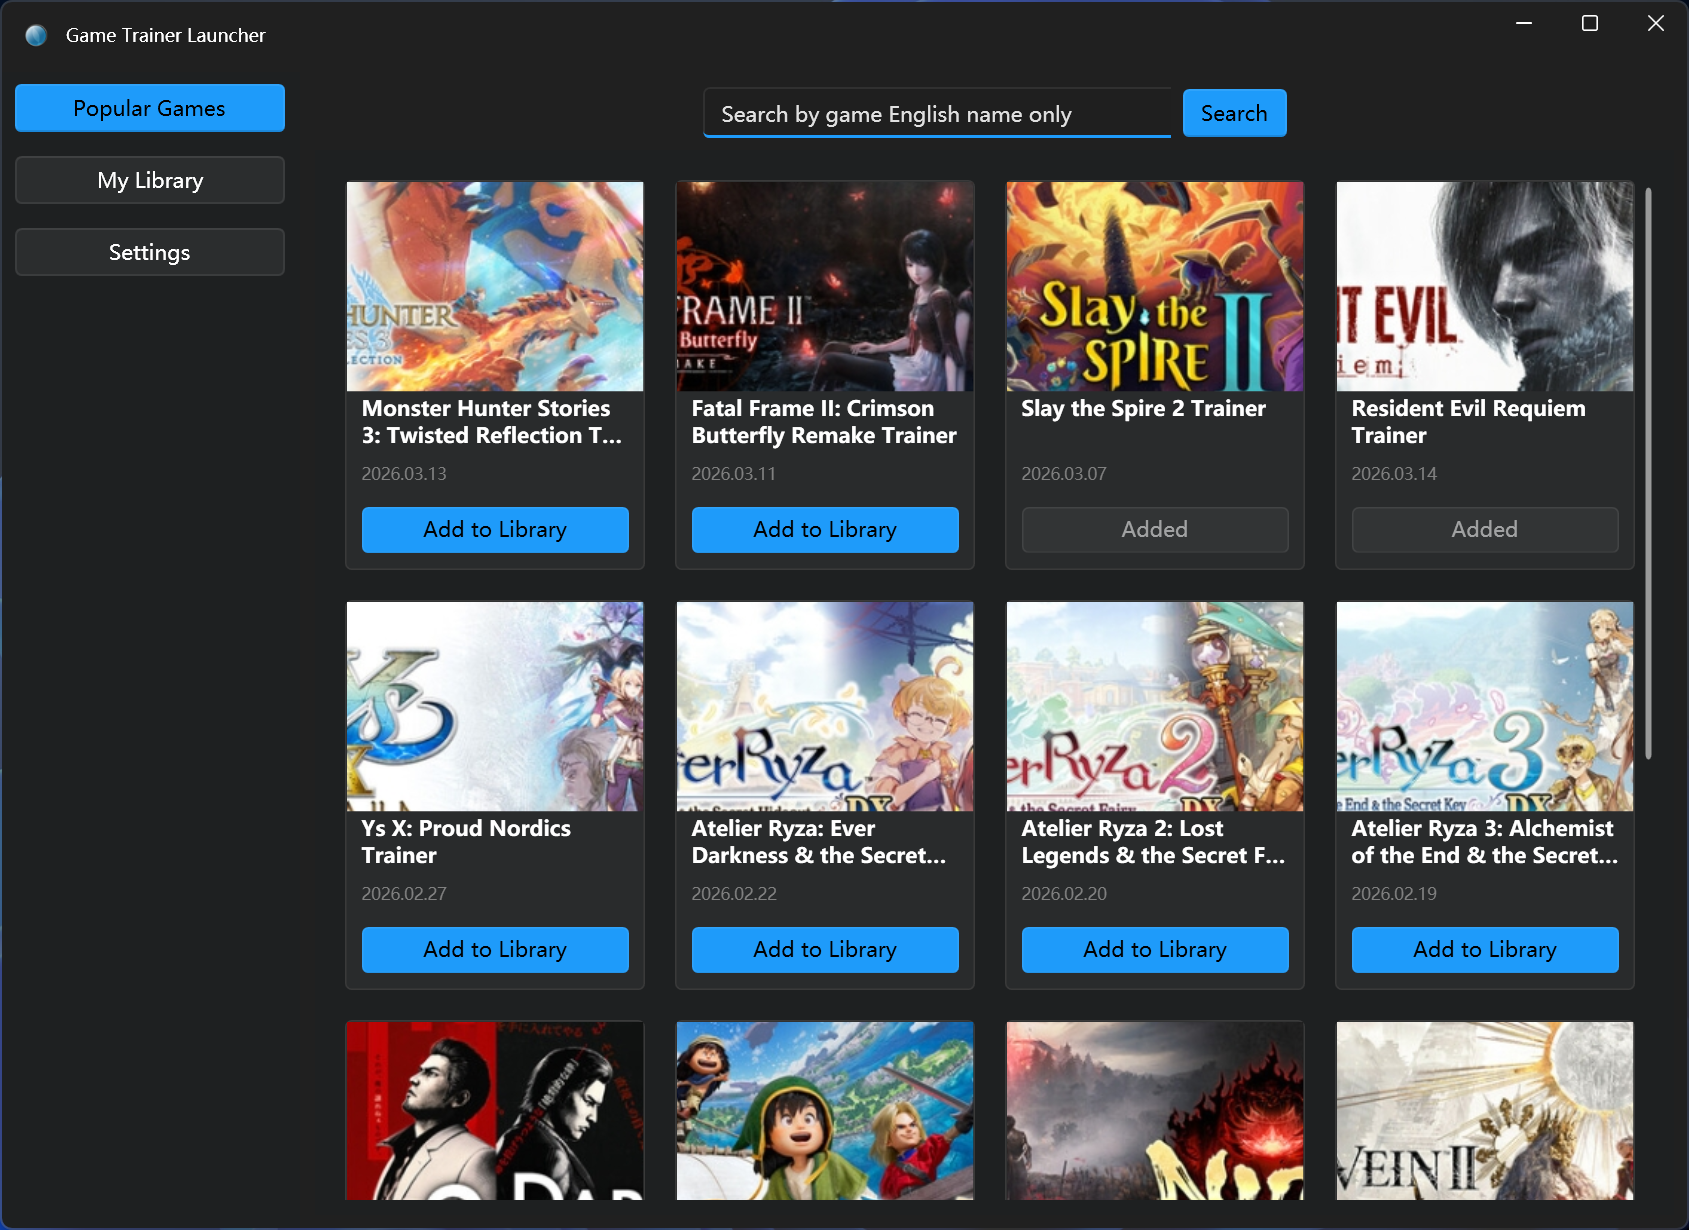
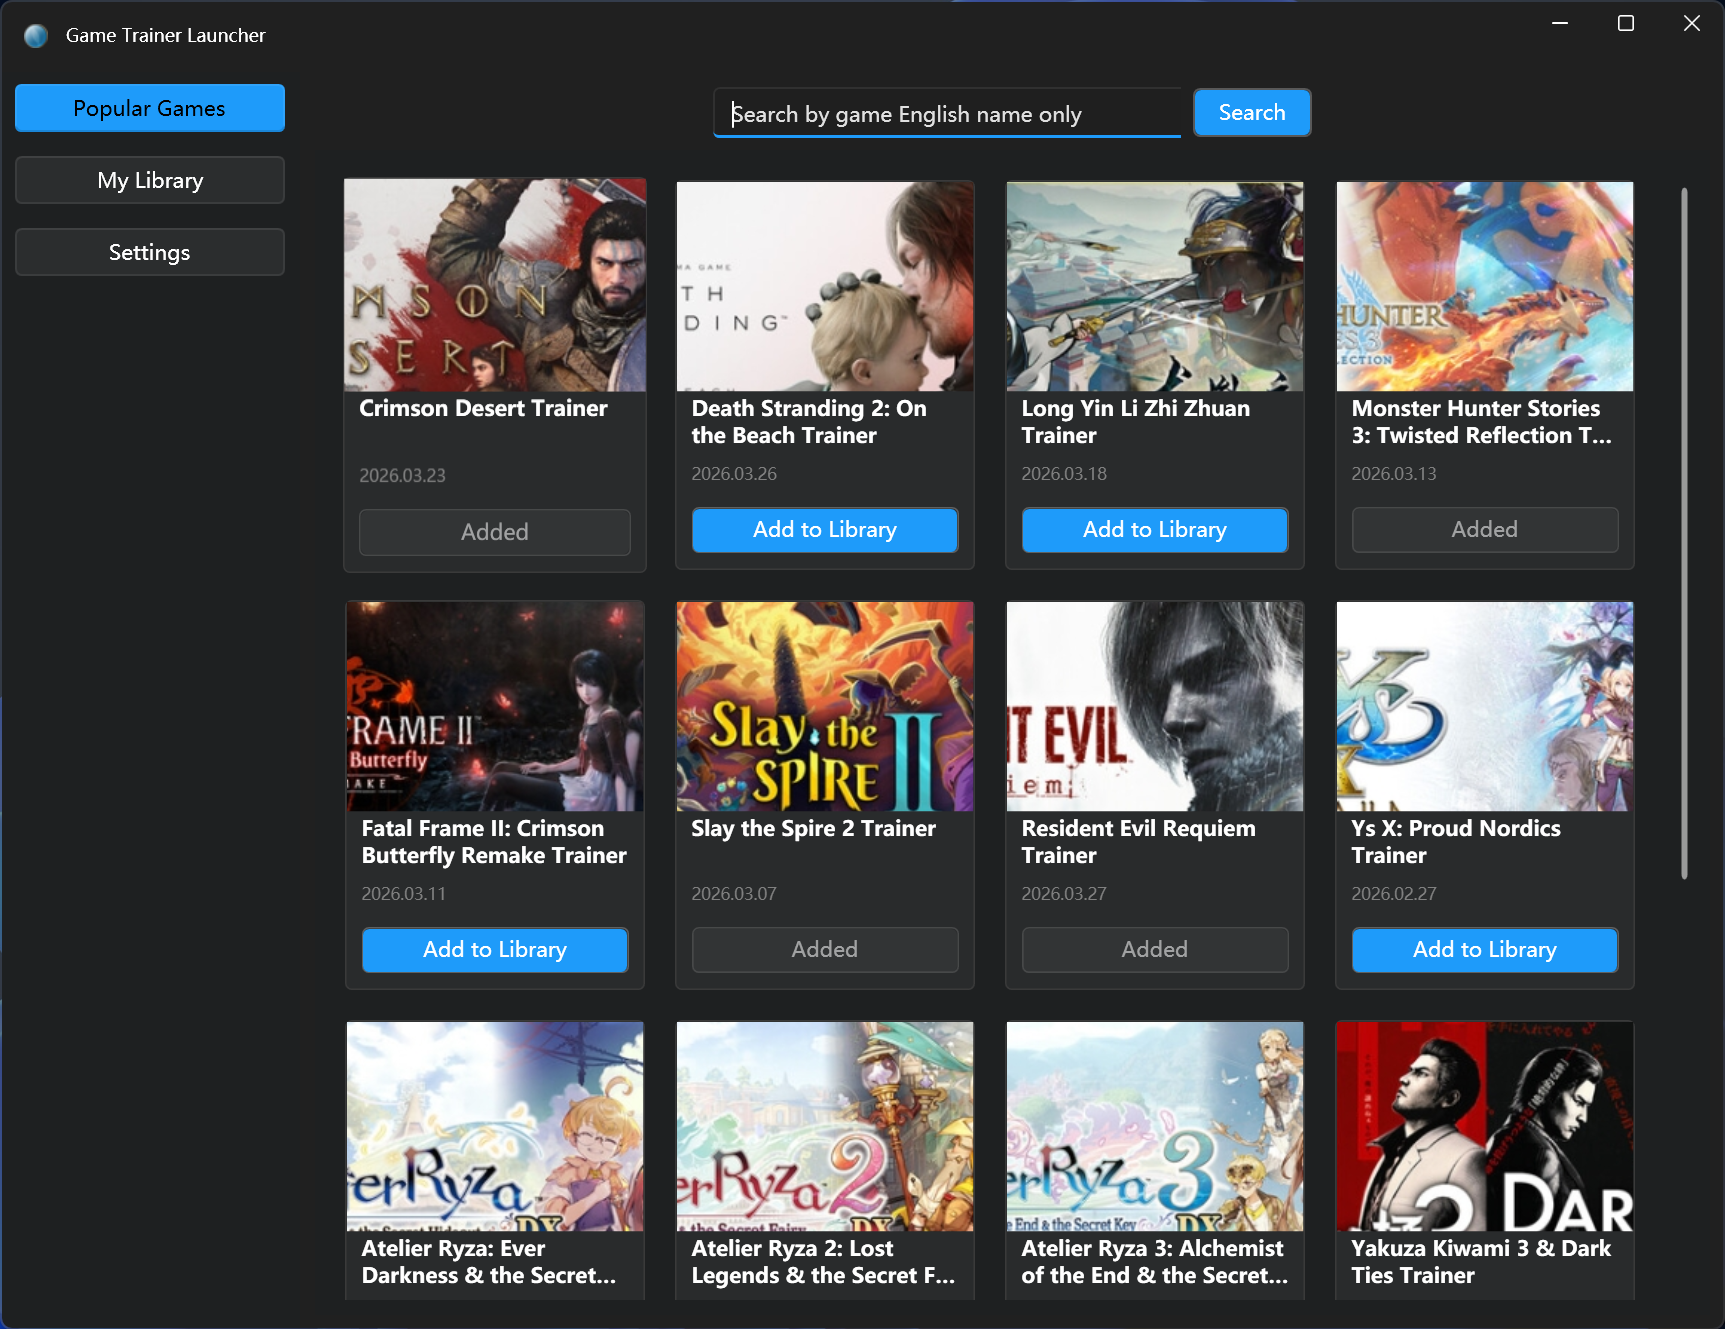
feat: refine search card layout and settings UX
Align search result action buttons, update bilingual search hints, add repository shortcut in settings, and refresh CN/EN README with version-selection and update guidance.

Made-with: Cursor

diff --git a/GameTrainerLauncher.UI/Resources/Languages/English.xaml b/GameTrainerLauncher.UI/Resources/Languages/English.xaml
@@ -2,8 +2,8 @@
                     xmlns:x="http://schemas.microsoft.com/winfx/2006/xaml"
                     xmlns:system="clr-namespace:System;assembly=mscorlib">
     <system:String x:Key="AppTitle">Game Trainer Launcher</system:String>
-    <system:String x:Key="SearchPlaceholder">Search by game English name only</system:String>
-    <system:String x:Key="MsgSearchEmpty">Please enter a game name (in English) before searching.</system:String>
+    <system:String x:Key="SearchPlaceholder">Search by game name (Chinese or English)</system:String>
+    <system:String x:Key="MsgSearchEmpty">Please enter a game name (Chinese or English) before searching.</system:String>
     <system:String x:Key="NavPopular">Popular Games</system:String>
     <system:String x:Key="NavMyGames">My Library</system:String>
     <system:String x:Key="NavSettings">Settings</system:String>
@@ -61,6 +61,9 @@
     <system:String x:Key="UpdateStatusLabel">Status</system:String>
     <system:String x:Key="UpdateLastCheckedLabel">Last Checked</system:String>
     <system:String x:Key="UpdateCheckNow">Check for Updates</system:String>
+    <system:String x:Key="RepoSectionTitle">Project Repository</system:String>
+    <system:String x:Key="RepoDescription">View source code, file issues, and contribute.</system:String>
+    <system:String x:Key="RepoOpenButton">Open GitHub Repository</system:String>
     <system:String x:Key="UpdateNeverChecked">Never checked</system:String>
     <system:String x:Key="UpdateChecking">Checking for updates...</system:String>
     <system:String x:Key="UpdateStatusNotChecked">Not checked yet.</system:String>

diff --git a/GameTrainerLauncher.UI/Resources/Languages/Chinese.xaml b/GameTrainerLauncher.UI/Resources/Languages/Chinese.xaml
@@ -2,8 +2,8 @@
                     xmlns:x="http://schemas.microsoft.com/winfx/2006/xaml"
                     xmlns:system="clr-namespace:System;assembly=mscorlib">
     <system:String x:Key="AppTitle">游戏修改器启动器</system:String>
-    <system:String x:Key="SearchPlaceholder">仅支持按游戏英文名搜索</system:String>
-    <system:String x:Key="MsgSearchEmpty">请先输入游戏英文名再搜索。</system:String>
+    <system:String x:Key="SearchPlaceholder">支持中文或英文游戏名搜索</system:String>
+    <system:String x:Key="MsgSearchEmpty">请输入中文或英文游戏名后再搜索。</system:String>
     <system:String x:Key="NavPopular">热门游戏</system:String>
     <system:String x:Key="NavMyGames">我的游戏</system:String>
     <system:String x:Key="NavSettings">设置</system:String>
@@ -61,6 +61,9 @@
     <system:String x:Key="UpdateStatusLabel">状态</system:String>
     <system:String x:Key="UpdateLastCheckedLabel">上次检查</system:String>
     <system:String x:Key="UpdateCheckNow">检查更新</system:String>
+    <system:String x:Key="RepoSectionTitle">项目仓库</system:String>
+    <system:String x:Key="RepoDescription">查看源码、提交 Issue 和参与贡献。</system:String>
+    <system:String x:Key="RepoOpenButton">打开 GitHub 仓库</system:String>
     <system:String x:Key="UpdateNeverChecked">从未检查</system:String>
     <system:String x:Key="UpdateChecking">正在检查更新...</system:String>
     <system:String x:Key="UpdateStatusNotChecked">尚未检查更新。</system:String>

diff --git a/GameTrainerLauncher.UI/Views/SettingsPage.xaml b/GameTrainerLauncher.UI/Views/SettingsPage.xaml
@@ -15,6 +15,7 @@
                 <Grid.RowDefinitions>
                     <RowDefinition Height="Auto"/>
                     <RowDefinition Height="Auto"/>
+                    <RowDefinition Height="Auto"/>
                 </Grid.RowDefinitions>
                 <ui:Card Grid.Column="0" Margin="0,0,6,0" Padding="16" MinWidth="260">
                     <StackPanel>
@@ -63,6 +64,19 @@
                                        Content="{DynamicResource UpdateCheckNow}"
                                        Click="CheckForUpdates_Click"
                                        Appearance="Primary"/>
+                        </StackPanel>
+                    </StackPanel>
+                </ui:Card>
+
+                <ui:Card Grid.Row="2" Grid.ColumnSpan="2" Margin="0,12,0,0" Padding="16">
+                    <StackPanel>
+                        <TextBlock Text="{DynamicResource RepoSectionTitle}" FontWeight="SemiBold" FontSize="14" Margin="0,0,0,8"/>
+                        <TextBlock Text="{DynamicResource RepoDescription}" Foreground="{DynamicResource SecondaryTextBrush}" Margin="0,0,0,12"/>
+                        <StackPanel Orientation="Horizontal">
+                            <ui:Button x:Name="OpenRepoButton"
+                                       Content="{DynamicResource RepoOpenButton}"
+                                       Click="OpenRepo_Click"
+                                       Appearance="Secondary"/>
                         </StackPanel>
                     </StackPanel>
                 </ui:Card>

diff --git a/GameTrainerLauncher.UI/Controls/TrainerCard.xaml b/GameTrainerLauncher.UI/Controls/TrainerCard.xaml
@@ -33,10 +33,10 @@
                 </Style.Triggers>
             </Style>
         </ui:Card.Style>
-        <Grid>
+        <Grid MinHeight="280">
             <Grid.RowDefinitions>
                 <RowDefinition Height="140"/>
-                <RowDefinition Height="Auto"/>
+                <RowDefinition Height="*"/>
                 <RowDefinition Height="Auto"/>
             </Grid.RowDefinitions>
 
@@ -81,7 +81,7 @@
             </StackPanel>
 
             <!-- Add button：添加中显示 loading + 进度条，下载完成后弹添加成功 -->
-            <StackPanel Grid.Row="2" Margin="10,0,10,10">
+            <StackPanel Grid.Row="2" Margin="10,0,10,10" VerticalAlignment="Bottom">
                 <Border BorderThickness="1"
                         BorderBrush="{Binding ElementName=AddButton, Path=Foreground, Converter={StaticResource BrushOpacityConverter}, ConverterParameter=0.25}"
                         CornerRadius="4">

diff --git a/GameTrainerLauncher.UI/Views/SettingsPage.xaml.cs b/GameTrainerLauncher.UI/Views/SettingsPage.xaml.cs
@@ -1,5 +1,6 @@
 using GameTrainerLauncher.UI.Services;
 using Microsoft.Extensions.DependencyInjection;
+using System.Diagnostics;
 using System.Windows;
 using System.Windows.Controls;
 using Wpf.Ui.Appearance;
@@ -8,6 +9,7 @@ namespace GameTrainerLauncher.UI.Views;
 
 public partial class SettingsPage : Page
 {
+    private const string RepositoryUrl = "https://github.com/hwttop5/GameTrainerLauncher";
     private readonly IThemeService _themeService;
     private readonly IAppUpdateService _appUpdateService;
     private readonly IAppNotificationService _notificationService;
@@ -71,5 +73,22 @@ public partial class SettingsPage : Page
         CurrentVersionText.Text = snapshot.CurrentVersion;
         UpdateStatusText.Text = UpdateTextFormatter.GetStatusText(snapshot);
         UpdateLastCheckedText.Text = UpdateTextFormatter.FormatLastChecked(snapshot.LastCheckedAtUtc);
+    }
+
+    private void OpenRepo_Click(object sender, RoutedEventArgs e)
+    {
+        try
+        {
+            Process.Start(new ProcessStartInfo
+            {
+                FileName = RepositoryUrl,
+                UseShellExecute = true
+            });
+        }
+        catch (Exception ex)
+        {
+            var message = UpdateTextFormatter.Format("MsgNavigationError", ex.Message);
+            _notificationService.ShowError(message);
+        }
     }
 }

diff --git a/README.en.md b/README.en.md
@@ -10,10 +10,12 @@ Tired of manually downloading and managing lots of game trainer .exe files, and 
 
 ## Features
 
-- **Search**: Search FlingTrainer by game name (English); add results to library; multiple simultaneous adds with per-card state.
+- **Search**: Search by game name in Chinese or English; local title index returns results immediately, then background incremental sync/backfill improves coverage; add results to library with per-card state.
 - **Popular Games**: Fetches popular trainers from FlingTrainer; add to library with one click (download + add), progress bar and timeout (1 min).
 - **My Library**: List of added trainers; default order is newest first, drag to reorder; launch or remove; covers are downloaded locally when adding; when entering this page it checks whether each game has a local cover and backfills missing ones automatically; download missing trainers from this page; displays a friendly no-data prompt when the library is empty.
-- **Settings**: Language (Chinese/English), theme (light/dark).
+- **Trainer Version Selection**: Choose the trainer version before downloading to match your game build and reduce version mismatch issues.
+- **App Update**: Check for updates, review current update status/release notes, then download and restart to install newer versions.
+- **Settings**: Language (Chinese/English), theme (light/dark), update checks, and a GitHub repository shortcut.
 
 ---
 
@@ -27,6 +29,10 @@ Tired of manually downloading and managing lots of game trainer .exe files, and 
 |------------|----------|
 | ![My Library](Docs/Images/MyLibrary.png) | ![Settings](Docs/Images/Settings.png) |
 
+| Trainer Version (TODO) | App Update (TODO) |
+|------------------------|-------------------|
+| ![Trainer Version TODO](Docs/Images/TrainerVersion-TODO.png) | ![App Update TODO](Docs/Images/Update-TODO.png) |
+
 ---
 
 ## Tech Stack
@@ -34,7 +40,7 @@ Tired of manually downloading and managing lots of game trainer .exe files, and 
 - **Runtime**: .NET 8, Windows only (WPF)
 - **UI**: WPF + [WPF-UI](https://github.com/lepo-co/wpf-ui) (Fluent-style) + [CommunityToolkit.Mvvm](https://learn.microsoft.com/en-us/dotnet/communitytoolkit/mvvm/)
 - **Data**: SQLite + Entity Framework Core 8
-- **Scraping**: HtmlAgilityPack for FlingTrainer list/detail/download
+- **Scraping**: HtmlAgilityPack for FlingTrainer/Gamersky/Steam metadata (policy-driven background sync)
 - **Logging**: NLog (writes to `Data/Logs/log.txt` under the app directory)
 
 ### Project structure
@@ -63,6 +69,7 @@ Trainers and data live under `Data` next to the executable (e.g. `Data/Trainers`
 
 > Note: To avoid write-permission issues under Program Files, app data is stored at `%LocalAppData%\GameTrainerLauncher\Data`.
 > Local cover cache: `%LocalAppData%\GameTrainerLauncher\Data\Covers` (files like `game_{id}.png/jpg/...`).
+> Title-index snapshot lives at `%LocalAppData%\GameTrainerLauncher\Data\title-index.snapshot.json`; first install initializes from bundled seed `GameTrainerLauncher.UI/Assets/title-index.seed.snapshot.json` and then continues incremental updates.
 
 ---
 

diff --git a/README.md b/README.md
@@ -10,10 +10,12 @@
 
 ## 功能概览
 
-- **搜索**：按游戏英文名检索 FlingTrainer，结果可「下载并添加」到我的游戏；支持多任务同时添加、每张卡片独立状态。
+- **搜索**：支持中文或英文游戏名检索；优先走本地标题索引秒回结果，并在后台做增量同步与补齐；结果可「下载并添加」到我的游戏，支持每张卡片独立状态。
 - **热门游戏**：拉取 FlingTrainer 热门修改器列表，一键「下载并添加」到我的游戏，带进度条与超时提示。
 - **我的游戏**：已添加的修改器列表，默认按添加时间倒序（最新在前），支持拖拽排序；支持启动、移除；封面会在「添加」时下载到本地，进入页面时会检查是否每个游戏都有本地封面，缺失则自动抓取并补全；可在此页对未下载项单独下载；当游戏库为空时显示友好的无数据提示。
-- **设置**：语言（中文/英文）、主题（亮色/暗色）。
+- **修改器版本选择**：下载前可弹窗选择对应版本，适配不同游戏版本，避免版本不匹配导致无法使用。
+- **软件更新**：支持手动检查更新、查看版本状态与发布说明，发现新版本后可下载并重启安装。
+- **设置**：语言（中文/英文）、主题（亮色/暗色）、检查更新，以及项目 GitHub 仓库入口。
 
 ---
 
@@ -27,6 +29,10 @@
 |----------|------|
 | ![我的游戏](Docs/Images/MyLibrary.png) | ![设置](Docs/Images/Settings.png) |
 
+| 版本选择（待补图） | 软件更新（待补图） |
+|-------------------|-------------------|
+| ![版本选择-待补](Docs/Images/TrainerVersion-TODO.png) | ![软件更新-待补](Docs/Images/Update-TODO.png) |
+
 ---
 
 ## 技术栈
@@ -34,7 +40,7 @@
 - **运行时**：.NET 8，仅支持 Windows（WPF）
 - **UI**：WPF + [WPF-UI](https://github.com/lepo-co/wpf-ui)（Fluent 风格）+ [CommunityToolkit.Mvvm](https://learn.microsoft.com/en-us/dotnet/communitytoolkit/mvvm/)
 - **数据**：SQLite + Entity Framework Core 8
-- **爬虫**：HtmlAgilityPack，请求 FlingTrainer 列表/详情/下载
+- **爬虫**：HtmlAgilityPack，请求 FlingTrainer/Gamersky/Steam 元数据（按策略后台同步）
 - **日志**：NLog（写入程序目录 `Data/Logs/log.txt`）
 
 ### 项目结构
@@ -63,6 +69,7 @@
 
 > 注：为避免安装到 Program Files 时无写权限，应用数据实际存放在 `%LocalAppData%\GameTrainerLauncher\Data`。
 > 其中封面缓存目录为 `%LocalAppData%\GameTrainerLauncher\Data\Covers`（文件名形如 `game_{id}.png/jpg/...`）。
+> 标题索引快照位于 `%LocalAppData%\GameTrainerLauncher\Data\title-index.snapshot.json`，首装会使用内置种子 `GameTrainerLauncher.UI/Assets/title-index.seed.snapshot.json` 初始化后再做增量更新。
 
 ---
 
